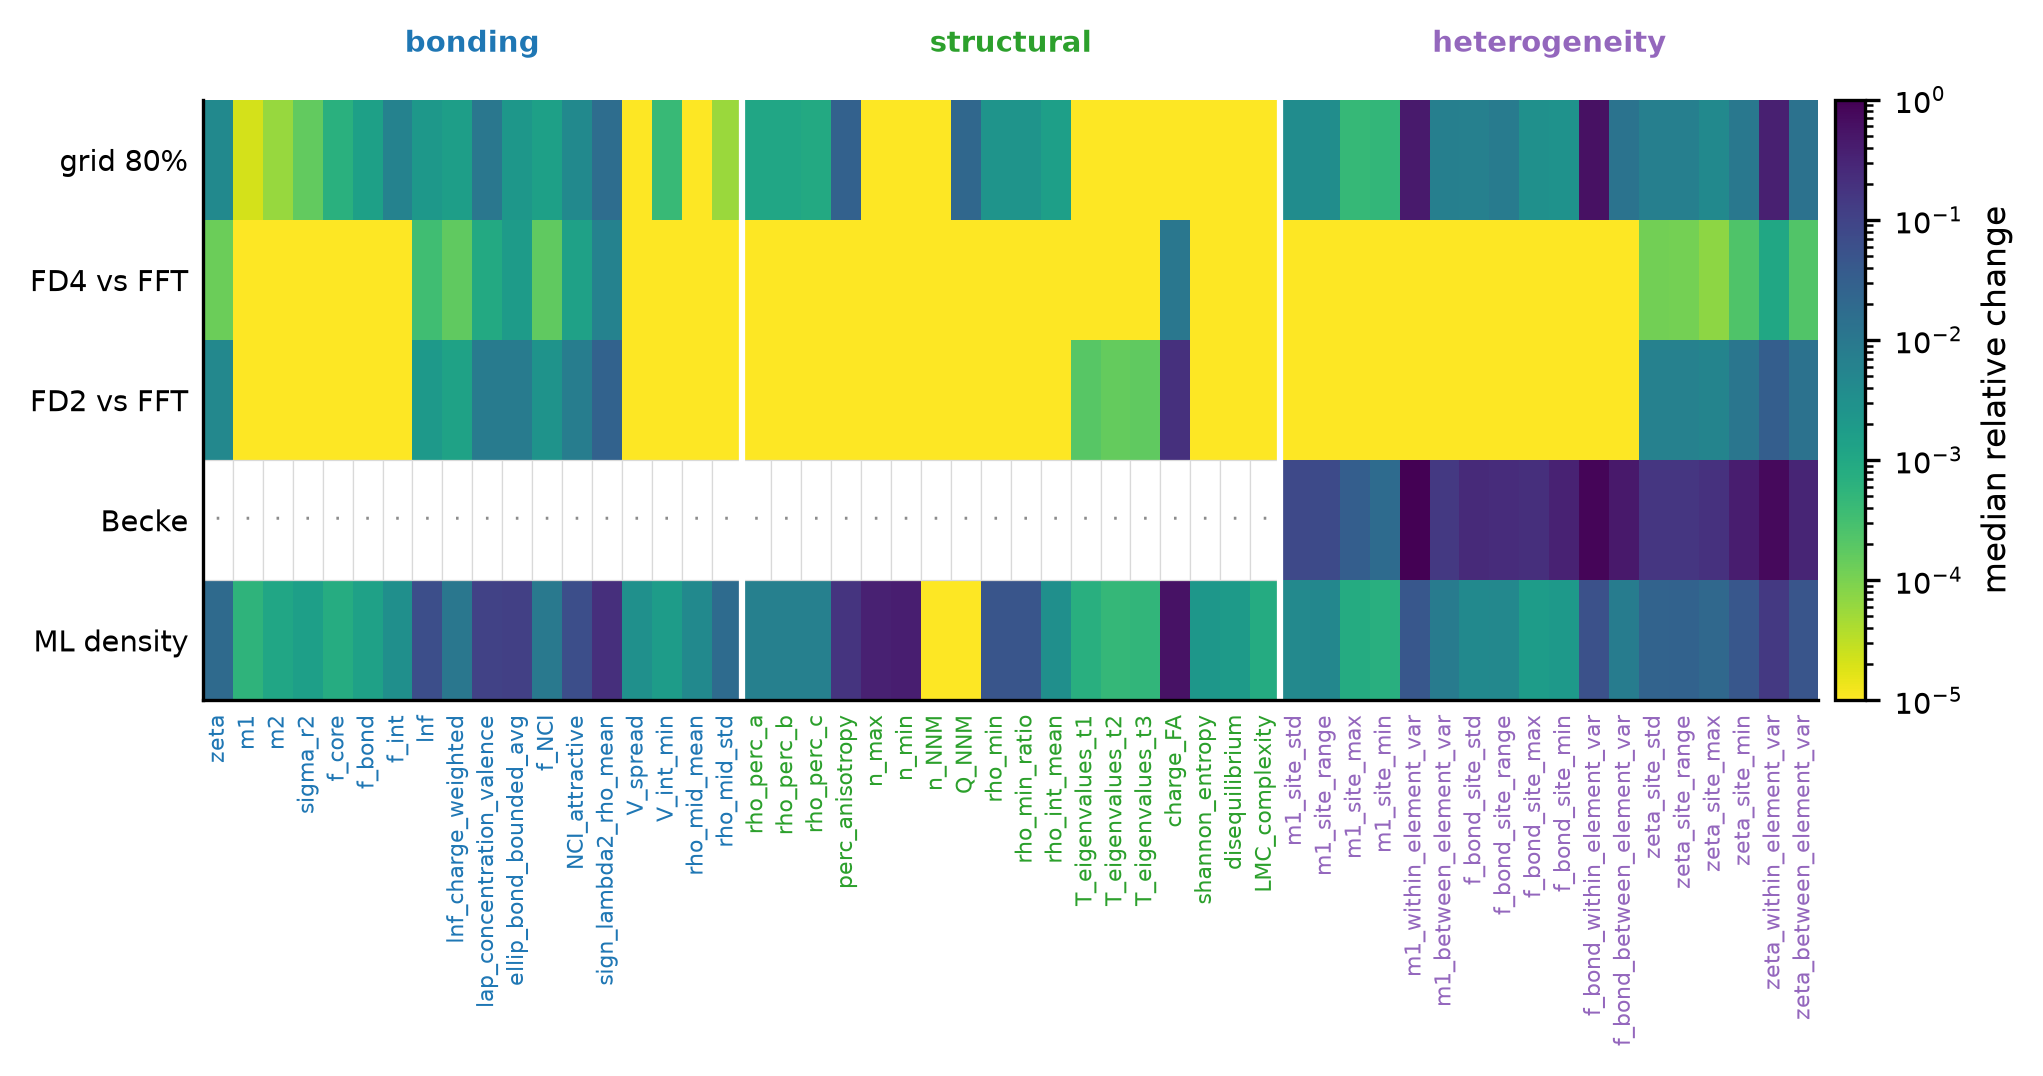
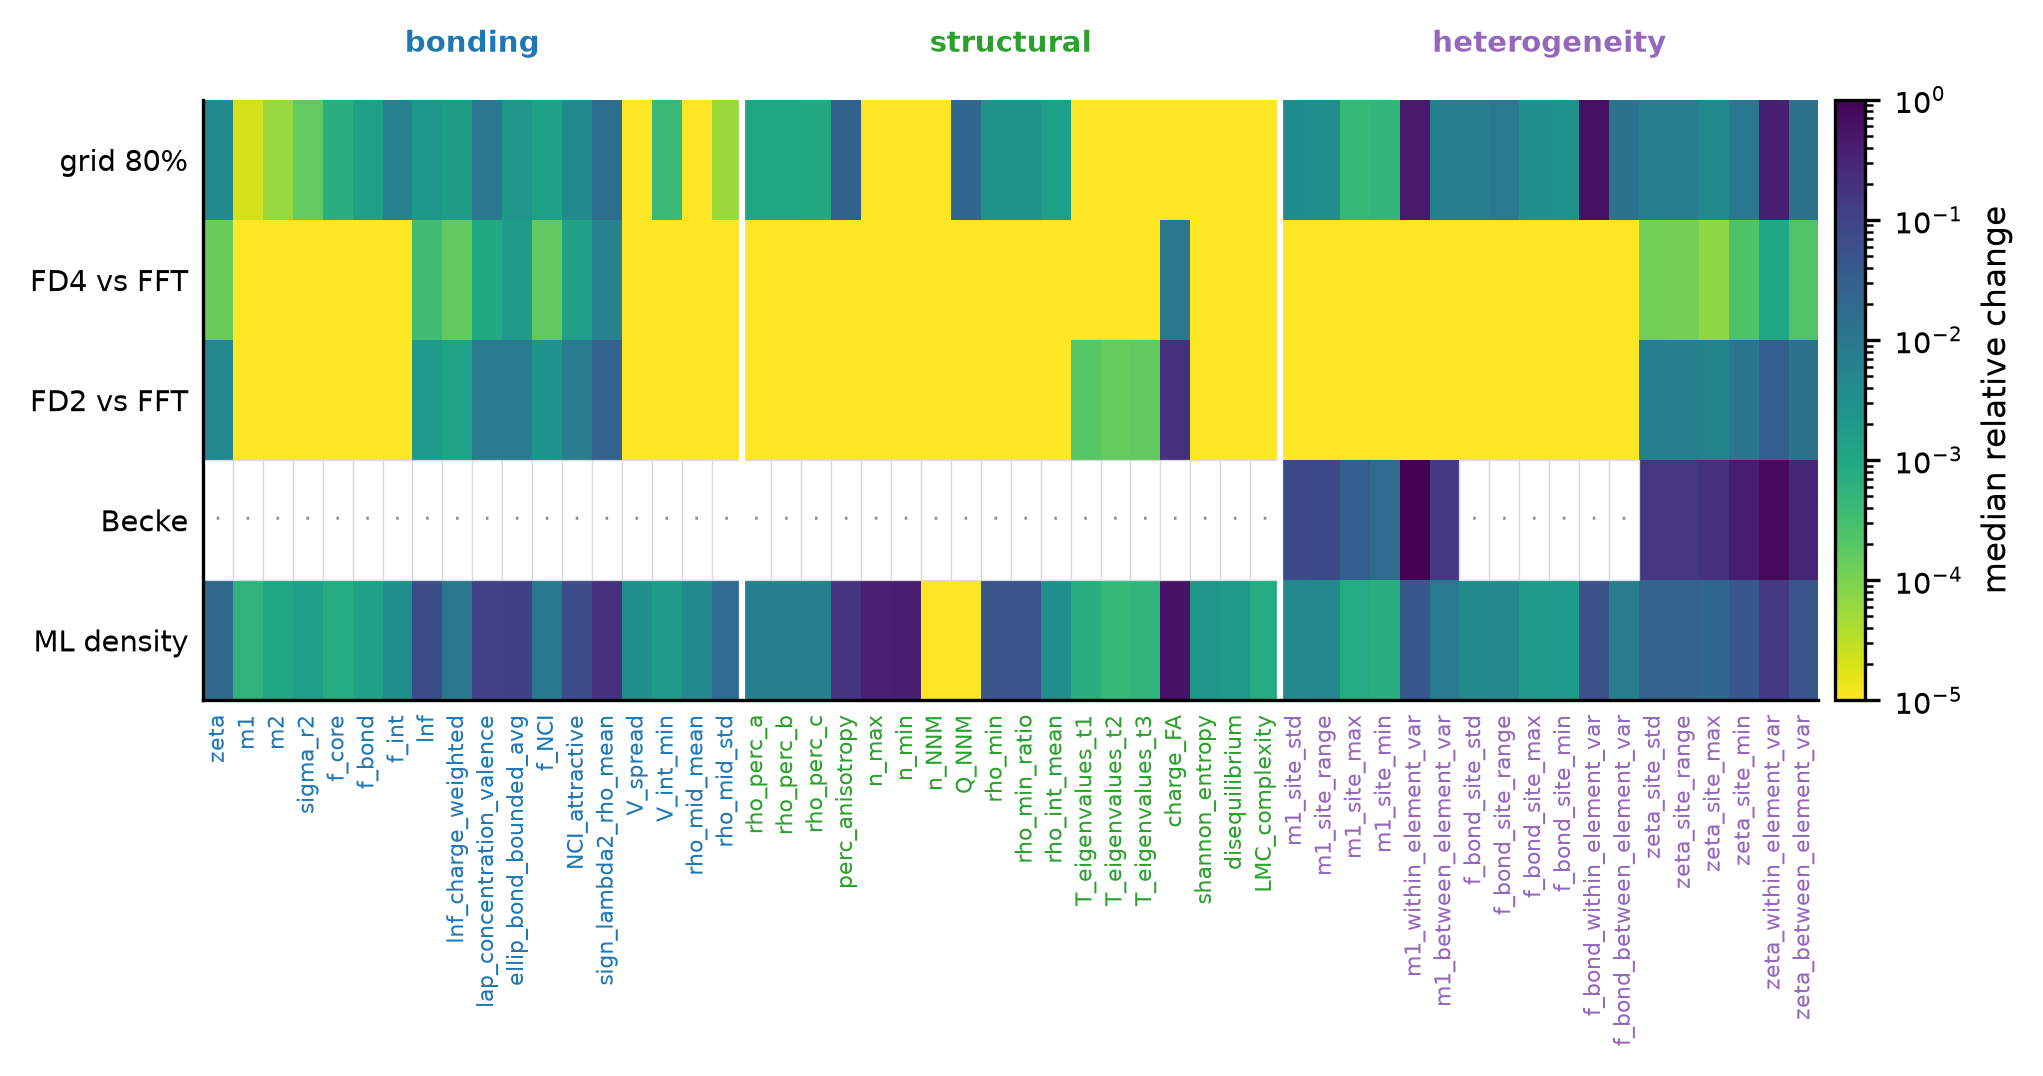
Review edits in blue: f_bond site descriptors independent of the partition (main Section 2, SI S1 and S2, stability figure and table)

Changed region(s): [[0.7093, 0.4294, 0.8018, 0.552]]

diff --git a/tables/tab_si_descriptors.tex b/tables/tab_si_descriptors.tex
@@ -43,12 +43,12 @@
 \texttt{m1\_site\_min} & \rev{0.049} & \rev{0.05} & \rev{1.00} & -- & -- & \rev{--} & 1.8 & 1.000 & 0.069 \\
 \texttt{m1\_within\_element\_var} & \rev{44} & \rev{0.67} & \rev{0.82} & -- & -- & \rev{--} & \rev{99} & \rev{0.995} & \rev{4.4} \\
 \texttt{m1\_between\_element\_var} & 0.68 & \rev{0.08} & \rev{1.00} & -- & -- & \rev{--} & 15 & 1.000 & 0.83 \\
-\texttt{f\_bond\_site\_std} & \rev{0.67} & \rev{0.09} & \rev{1.00} & -- & -- & \rev{--} & \rev{26} & 1.000 & \rev{0.43} \\
-\texttt{f\_bond\_site\_range} & \rev{0.85} & \rev{0.11} & \rev{1.00} & -- & -- & \rev{--} & \rev{24} & 1.000 & \rev{0.47} \\
-\texttt{f\_bond\_site\_max} & \rev{0.3} & \rev{0.08} & \rev{1.00} & -- & -- & \rev{--} & \rev{22} & \rev{0.999} & \rev{0.17} \\
-\texttt{f\_bond\_site\_min} & \rev{0.28} & \rev{0.08} & \rev{1.00} & -- & -- & \rev{--} & \rev{33} & 1.000 & \rev{0.2} \\
-\texttt{f\_bond\_within\_element\_var} & \rev{60} & \rev{0.22} & \rev{0.82} & -- & -- & \rev{--} & \rev{85} & \rev{0.987} & \rev{5.7} \\
-\texttt{f\_bond\_between\_element\_var} & \rev{1.3} & \rev{0.09} & \rev{1.00} & -- & -- & \rev{--} & \rev{45} & 1.000 & \rev{0.81} \\
+\texttt{f\_bond\_site\_std} & \rev{0.67} & \rev{0.09} & \rev{1.00} & -- & -- & \rev{--} & \rev{--} & 1.000 & \rev{0.43} \\
+\texttt{f\_bond\_site\_range} & \rev{0.85} & \rev{0.11} & \rev{1.00} & -- & -- & \rev{--} & \rev{--} & 1.000 & \rev{0.47} \\
+\texttt{f\_bond\_site\_max} & \rev{0.3} & \rev{0.08} & \rev{1.00} & -- & -- & \rev{--} & \rev{--} & \rev{0.999} & \rev{0.17} \\
+\texttt{f\_bond\_site\_min} & \rev{0.28} & \rev{0.08} & \rev{1.00} & -- & -- & \rev{--} & \rev{--} & 1.000 & \rev{0.2} \\
+\texttt{f\_bond\_within\_element\_var} & \rev{60} & \rev{0.22} & \rev{0.82} & -- & -- & \rev{--} & \rev{--} & \rev{0.987} & \rev{5.7} \\
+\texttt{f\_bond\_between\_element\_var} & \rev{1.3} & \rev{0.09} & \rev{1.00} & -- & -- & \rev{--} & \rev{--} & 1.000 & \rev{0.81} \\
 \texttt{zeta\_site\_std} & \rev{0.7} & \rev{0.04} & \rev{1.00} & \rev{0.011} & \rev{0.63} & \rev{0.01} & 16 & 0.996 & 2.5 \\
 \texttt{zeta\_site\_range} & \rev{0.7} & \rev{0.04} & \rev{1.00} & \rev{0.011} & \rev{0.63} & \rev{0.01} & 16 & 0.996 & 2.7 \\
 \texttt{zeta\_site\_max} & \rev{0.43} & \rev{0.04} & \rev{1.00} & \rev{$<0.01$} & \rev{0.55} & \rev{0.01} & 19 & 0.997 & 2 \\

diff --git a/SI.tex b/SI.tex
@@ -145,9 +145,11 @@ f_\mathrm{bond}^{(i)}=\frac{\sum_{\rev{a<s_k\le b}}w_i(k)\rho_k}{\sum_k w_i(k)\r
 \zeta^{(i)}=1-\frac{\sum_k w_i(k)|\nabla\rho_k\cdot\hat{\mathbf u}_{ik}|}{\sum_k w_i(k)|\nabla\rho_k|}.
 \end{gathered}
 \end{equation}
-\rev{With the nearest-atom partition, $f_\mathrm{bond}^{(i)}$ gives each voxel to the
-nucleus with the smallest $r_{ik}/R_i$ instead, so that the bond regions of the
-atoms add up to that of the cell.} For each $X\in\{m_1,f_\mathrm{bond},\zeta\}$ the descriptors are
+\rev{Under every partition, $f_\mathrm{bond}^{(i)}$ gives each voxel to the
+nucleus with the smallest $r_{ik}/R_i$ instead: the sphere that puts a voxel in
+the bond region also names its atom. The bond regions of the atoms then add up
+to that of the cell, and the six site descriptors of $f_\mathrm{bond}$ do not
+depend on the partition.} For each $X\in\{m_1,f_\mathrm{bond},\zeta\}$ the descriptors are
 the site spread \dn{X_site_std} ($\mathrm{std}_iX^{(i)}$), the site range
 \dn{X_site_range}, the site maximum and minimum \dn{X_site_max} and
 \dn{X_site_min}, the within-element variance \dn{X_within_element_var}
@@ -200,12 +202,13 @@ The fractional anisotropy changes by 20\% with second-order differences in
 relative terms but by less than 0.05\,SD in 95\% of the structures.}
 
 \paragraph{Atomic partition.} The whole-cell descriptors do not depend on the
-partition. The 18 site descriptors do, by definition, because each partition
+partition\rev{, and neither do the six site descriptors of $f_\mathrm{bond}$, whose
+per-atom regions follow the spheres under every partition
+(Section~\ref{si:defs}). The 12 site descriptors of $m_1$ and $\zeta$} do, by definition, because each partition
 defines different per-atom regions (300 structures). Becke cells, which like
 the nearest-atom partition ignore atomic size, preserve the ranking of the
 structures by the site standard deviations \rev{of $m_1$ and $\zeta$ (Spearman
-$\rho_s=0.99$ and 0.98). For $f_\mathrm{bond}$, whose per-atom regions under the
-default partition follow the covalent radii (Section~\ref{si:defs}), $\rho_s$ is 0.74.}
+$\rho_s=0.99$ and 0.98).}
 
 \paragraph{Quantities pydemi does not offer.} Some standard quantities of
 density analysis cannot be computed reliably from a \texttt{CHGCAR}. The

diff --git a/main.tex b/main.tex
@@ -276,13 +276,14 @@ never overlap, and almost no bond passes through the interstitial region. The
 regions scale with the size of the atoms and need no fixed length;
 \texttt{pydemi sweep} shows how the descriptors change with $a$ and $b$
 (Section~\ref{sec:software}).} The 18 site descriptors, which are computed for each atom, need the cell to be
-divided into atomic regions. All results in this work use the default, which
-gives each grid point to its nearest nucleus\rev{; for the bond-region charge
-of each atom, it gives the point to the nucleus with the smallest $r/R_i$, so
-that the bond regions of the atoms add up to that of the cell}. \rev{The} fuzzy cells of
+divided into atomic regions. \rev{For the bond-region charge of each atom, the
+spheres decide: a point of the bond region belongs to the atom with the
+smallest $r/R_i$, so that the bond regions of the atoms add up to that of the
+cell. For $m_1$ and $\zeta$, a}ll results in this work use the default, which
+gives each grid point to its nearest nucleus. \rev{The} fuzzy cells of
 Becke~\cite{becke1988}, which share the points between neighbouring atoms
-smoothly, are offered as \rev{an alternative. The site descriptors are defined
-for the chosen partition, and} Section~S2 of the Supporting Information
+smoothly, are offered as \rev{an alternative. The 12 site descriptors of $m_1$
+and $\zeta$ are defined for the chosen partition, and} Section~S2 of the Supporting Information
 shows how \rev{they change with it}.
 
 Each descriptor is a short Python function that takes the density object and
